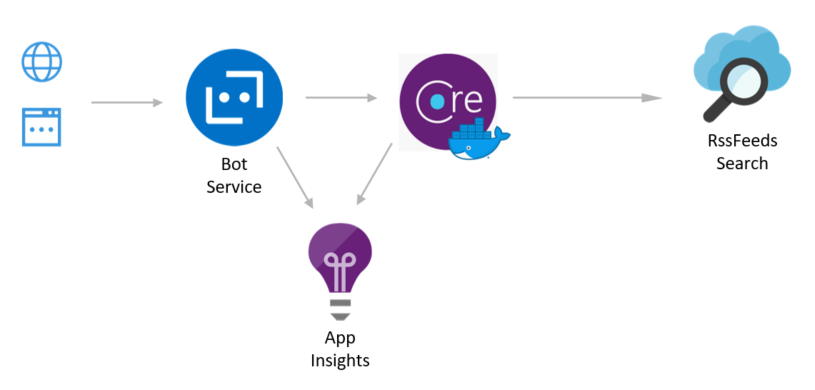
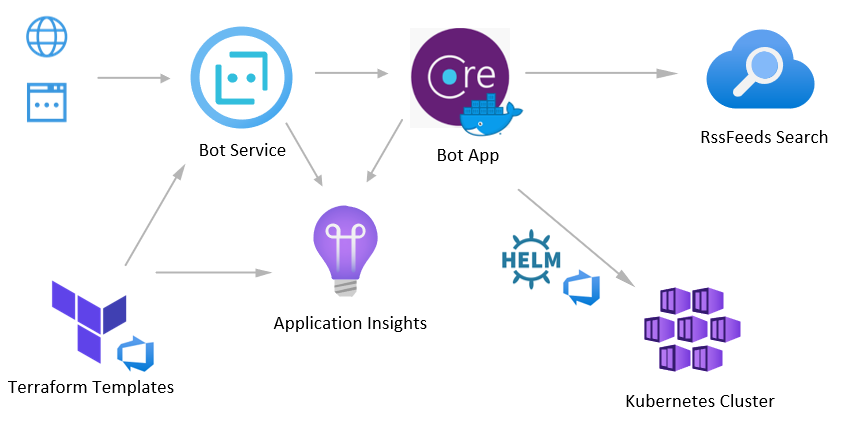
Terraform (#25)
* review jobs

* add tf template

* Fix Interpolation warning + dependency

* terraform plan in Azure Pipeline

* update image with new icons

* [skip ci] make private method

* azurerm_management_lock

* add tf and k8s on PNG

* nginxIngressVersion as variable

* azurerm_bot_channel_ms_teams

* update docs

* terraform apply

* container_name as projectName

* terraform installer missing + failOnStderr

* disable lock and teams_channel for now

* $appInsightsInstrumentationKey

diff --git a/src/Bots/MyMonthlyBlogArticleBot.cs b/src/Bots/MyMonthlyBlogArticleBot.cs
@@ -70,7 +70,7 @@ namespace MyMonthlyBlogArticle.Bot.Bots
             }
         }
 
-        public async Task PostRssFeedsAsync(ITurnContext<IMessageActivity> turnContext, CancellationToken cancellationToken, string date = null, string month = null, string text = null)
+        private async Task PostRssFeedsAsync(ITurnContext<IMessageActivity> turnContext, CancellationToken cancellationToken, string date = null, string month = null, string text = null)
         {
             var results = GetRssFeeds(date, month, text);
             var resultsCount = results.Count.Value;

diff --git a/README.md b/README.md
@@ -2,15 +2,13 @@
 
 # MyMonthlyBlogArticle.Bot
 
-This repository contains all the code and deployment setup related to this project: [My monthly "Azure News & Updates" blog article got a Bot!](https://alwaysupalwayson.blogspot.com/2018/04/my-monthly-azure-news-updates-blog.html).
+This repository contains all the code and deployment scripts related to this project: [My monthly "Azure News & Updates" blog article got a Bot!](https://alwaysupalwayson.blogspot.com/2018/04/my-monthly-azure-news-updates-blog.html) created on April 2018. This repository actually got updated with a more Cloud Native App approach by leveraging associated latest and greatest technologies and features such as Docker, ASP.NET Core 3.1, Helm 3, Kubernetes and Terraform, check this entire story here: [My Bot just got powered by .NET Core 3.1, Docker, Kubernetes and Terraform](https://alwaysupalwayson.blogspot.com/2019/12/my-bot-just-got-powered-by-net-core-31.html).
 
 ![Flow & Architecture diagram](./FlowAndArchitecture.PNG "Flow & Architecture diagram")
 
 # Prerequisities
 
-First, you need to register your Bot Application in https://apps.dev.microsoft.com. From there, you should get 2 values for the deployment process below: `Application Id` and `Application Secret`.
-
-_TIPS: you could put these values in [Azure Key Vault](https://docs.microsoft.com/en-us/azure/key-vault/key-vault-whatis) for more security and to be able to automate more. You could then [access the key/values pairs by modifying the ARM Template accordingly](https://docs.microsoft.com/en-us/azure/azure-resource-manager/resource-manager-keyvault-parameter)._
+You need to register your Bot Application in https://apps.dev.microsoft.com. From there, you should get 2 values for the deployment process below: `Application Id` and `Application Secret`.
 
 # Deploy
 
